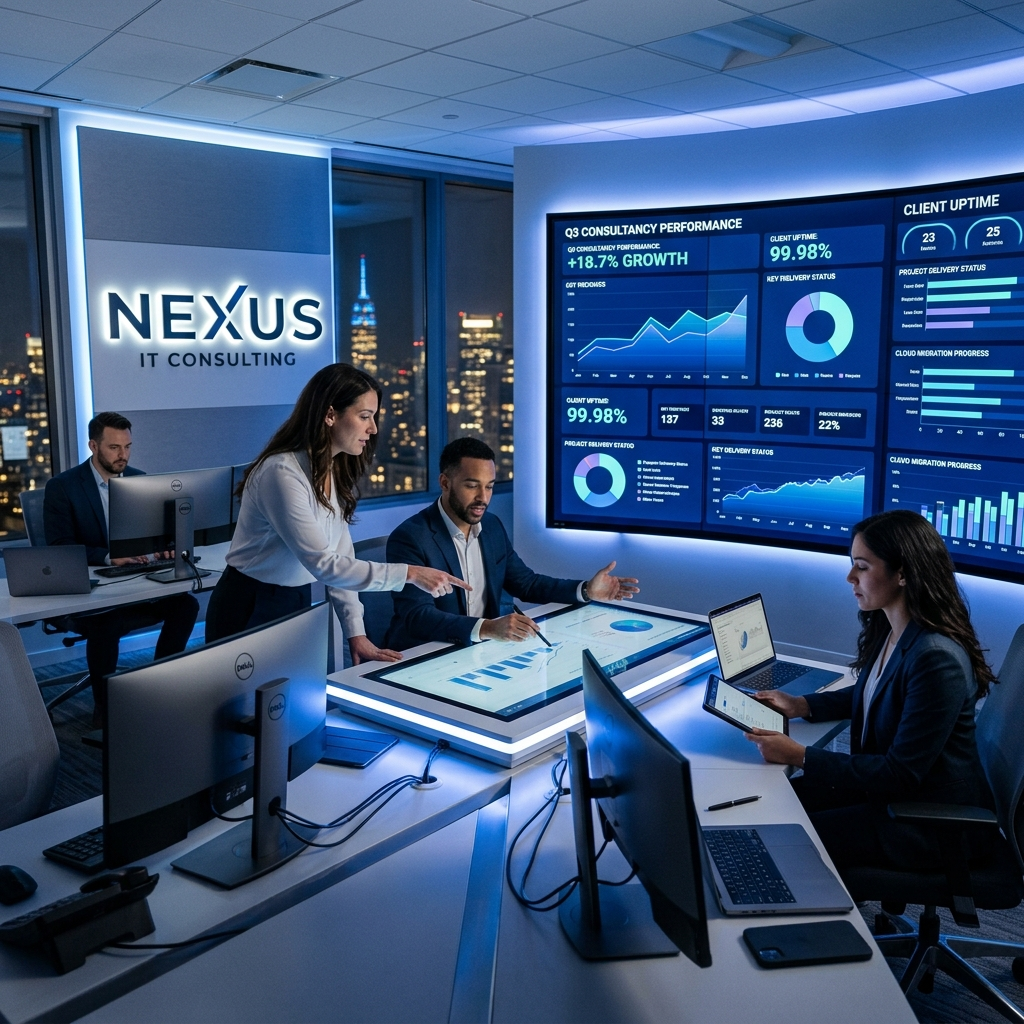
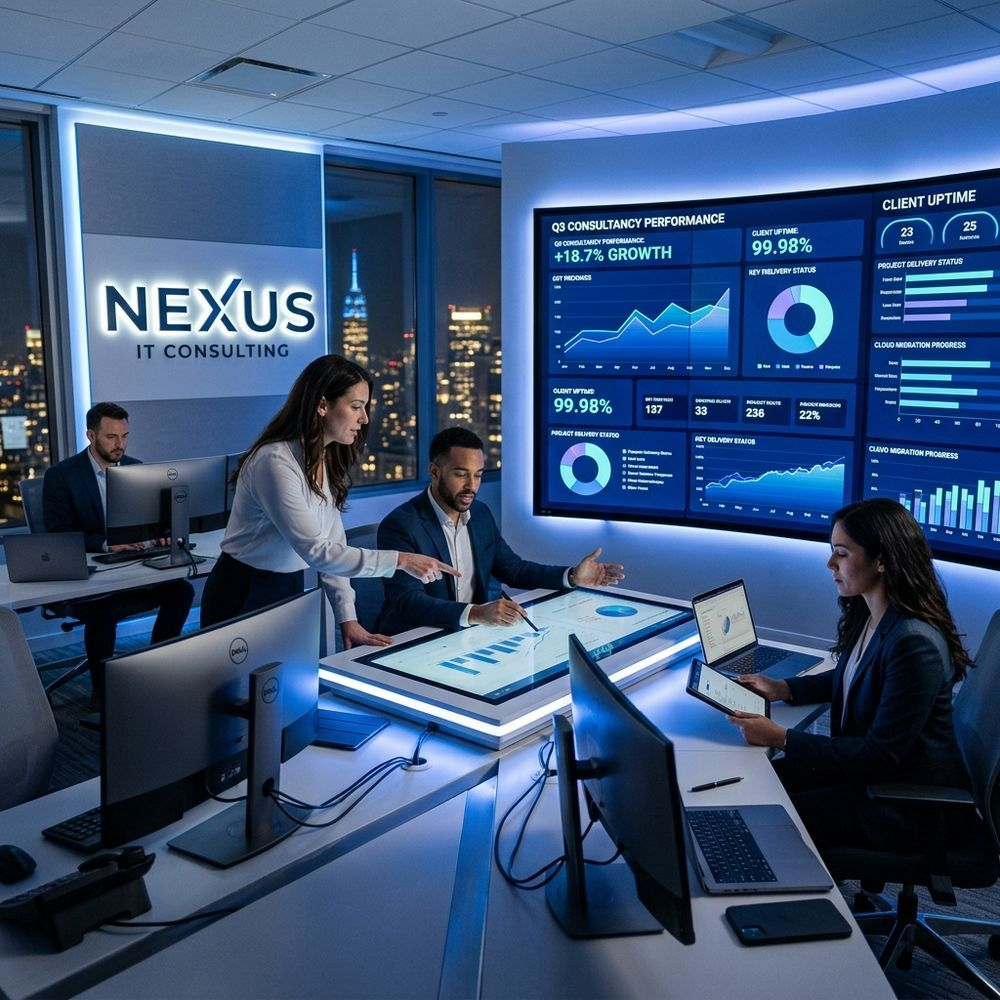
sync: incorporate uncommitted PHP, htaccess, and image changes from Hostinger server

Changed region(s): [[0.558, 0.217, 0.651, 0.248]]

diff --git a/backend/app/Filament/Pages/SystemLogs.php b/backend/app/Filament/Pages/SystemLogs.php
@@ -111,13 +111,10 @@ class SystemLogs extends Page
         $this->aiAnalysis = '';
 
         try {
-            $logContent = $this->logContent;
-            if (strlen($logContent) > 8000) {
-                $logContent = substr($logContent, -8000);
-            }
+            $logContent = $this->getLastCompleteLogEntries(5);
 
             $apiKey = config('ai.providers.groq.key') ?: env('GROQ_API_KEY');
-            $model = config('ai.providers.groq.models.text.default', 'llama-3.1-8b-instant');
+            $model = config('ai.providers.groq.models.text.smartest', 'llama-3.3-70b-versatile');
 
             if (!$apiKey || $apiKey === 'placeholder') {
                 $this->aiAnalysis = 'Groq API key not configured. Set AI_PROVIDER=groq and GROQ_API_KEY in .env';
@@ -133,17 +130,36 @@ class SystemLogs extends Page
                 'messages' => [
                     [
                         'role' => 'system',
-                        'content' => 'You are a Laravel DevOps expert. Analyze the following Laravel application logs and identify:
-1. ERROR/WARNING count and categories
-2. Root cause of each distinct error
-3. Specific fix commands or code changes needed
-4. Severity (critical/high/medium/low)
+                        'content' => 'You are an expert Laravel DevOps engineer and senior PHP developer.
+Analyze the provided log stream from a Laravel application (laravel.log).
 
-Format your response in clear sections with bullet points. Be concise and actionable.',
+Identify:
+1. Active Error/Warning Count and Categories:
+   - Carefully count the number of DISTINCT error occurrences.
+   - Ignore stacktrace lines when counting errors; a single stacktrace is part of one error/exception.
+   - Do NOT count common framework middlewares or pipeline wrapper frames (e.g., StartSession.php, SetUpPanel.php, TransformsRequest.php, Pipeline.php, TrimStrings.php, ConvertEmptyStringsToNull.php) as individual errors. They are just routing handlers carrying the request.
+
+2. Root Cause of Each Distinct Error:
+   - Identify the actual underlying exception or error class (e.g. `Class "Filament\Forms\Components\Tabs" not found`).
+   - Extract the exact file and line number where the issue actually originated (look at the start of the error message or the first non-vendor stack frame).
+   - EXTREMELY IMPORTANT: Do NOT claim that middleware classes (like `StartSession.php` or `SetUpPanel.php`) are "throwing exceptions" or are "broken" simply because they appear in the middle of a PHP stacktrace. Only report the root exception that triggered the trace.
+
+3. Specific Fix Commands or Code Changes:
+   - Provide direct, concrete instructions to resolve the actual root cause (e.g. correct namespaces, file paths, permissions, etc.).
+   - Only suggest commands like `php artisan config:clear` or session fixes if the root cause is explicitly config or session-related. Do not use them as generic catch-all suggestions.
+
+4. Severity:
+   - Rank the severity as:
+     * CRITICAL: Outage, database connection failed, or app completely crashed.
+     * HIGH: Major features failing, 500 server errors on core resources/controllers.
+     * MEDIUM: Isolated errors or warnings that don\'t block the main application.
+     * LOW: Deprecation warnings, notices, or minor logs.
+
+Format your response using clean, semantic markdown with clear headings, bold texts, and bullet points. Be precise, highly technical, and strictly accurate. Avoid any hallucinations.',
                     ],
                     [
                         'role' => 'user',
-                        'content' => "Here are the last 200 lines of laravel.log:\n\n```\n$logContent\n```",
+                        'content' => "Here are the last 5 complete log entries from laravel.log:\n\n```\n$logContent\n```",
                     ],
                 ],
                 'temperature' => 0.3,
@@ -161,6 +177,57 @@ Format your response in clear sections with bullet points. Be concise and action
         }
 
         $this->isAnalyzing = false;
+    }
+
+    protected function getLastCompleteLogEntries(int $limit = 3): string
+    {
+        $logPath = storage_path('logs/laravel.log');
+        if (!File::exists($logPath)) {
+            return 'No logs found.';
+        }
+
+        $content = File::get($logPath);
+        
+        // Regex to split by Laravel log entries starting with [YYYY-MM-DD HH:MM:SS]
+        $pattern = '/(?=\[\d{4}-\d{2}-\d{2} \d{2}:\d{2}:\d{2}\])/';
+        $entries = preg_split($pattern, $content);
+        
+        // Filter empty entries and trim
+        $entries = array_filter(array_map('trim', $entries));
+        
+        // Take the last $limit entries
+        $lastEntries = array_slice($entries, -$limit);
+        
+        // Clean each entry to keep only the first 15 lines of stacktrace
+        $cleanedEntries = [];
+        foreach ($lastEntries as $entry) {
+            $lines = explode("\n", $entry);
+            $cleanedLines = [];
+            $stackFrameCount = 0;
+            $truncated = false;
+            
+            foreach ($lines as $line) {
+                // If it looks like a stack frame (starts with #digit)
+                if (preg_match('/^#\d+\s+/', trim($line))) {
+                    if ($stackFrameCount < 15) {
+                        $cleanedLines[] = $line;
+                        $stackFrameCount++;
+                    } else {
+                        $truncated = true;
+                    }
+                } else {
+                    $cleanedLines[] = $line;
+                }
+            }
+            
+            if ($truncated) {
+                $cleanedLines[] = '      ... [rest of stacktrace truncated to save tokens] ...';
+            }
+            
+            $cleanedEntries[] = implode("\n", $cleanedLines);
+        }
+        
+        return implode("\n\n" . str_repeat('-', 40) . "\n\n", $cleanedEntries);
     }
 
     protected function formatBytes($bytes, $precision = 2)

diff --git a/backend/app/Http/Controllers/ContactController.php b/backend/app/Http/Controllers/ContactController.php
@@ -49,25 +49,45 @@ class ContactController extends Controller
             'utm_campaign' => $utmCampaign,
         ]);
 
-        // Create CRM Lead
-        $lead = Lead::create([
-            'source_type' => 'contact_form',
-            'name' => $validated['name'],
-            'email' => $validated['email'],
-            'phone' => $validated['phone'] ?? null,
-            'project_type' => $validated['subject'] ?? null,
-            'plan_or_idea' => $validated['message'],
-            'lead_status' => 'new',
-            'ip_address' => $ip,
-            'country' => $country,
-            'city' => $city,
-            'referrer_url' => $referrerUrl,
-            'referrer_source' => $referrerSource,
-            'utm_source' => $utmSource,
-            'utm_medium' => $utmMedium,
-            'utm_campaign' => $utmCampaign,
-            'notes' => 'Received via Contact Us Form submission.',
-        ]);
+        // Create or update CRM Lead
+        $lead = Lead::where('email', $validated['email'])->first();
+        if ($lead) {
+            $lead->update([
+                'name' => $validated['name'],
+                'phone' => $validated['phone'] ?? $lead->phone,
+                'project_type' => $validated['subject'] ?? $lead->project_type,
+                'plan_or_idea' => $validated['message'],
+                'lead_status' => 'new',
+                'ip_address' => $ip,
+                'country' => $country,
+                'city' => $city,
+                'referrer_url' => $referrerUrl,
+                'referrer_source' => $referrerSource,
+                'utm_source' => $utmSource,
+                'utm_medium' => $utmMedium,
+                'utm_campaign' => $utmCampaign,
+                'notes' => trim('Updated via Contact Us Form submission. ' . ($lead->notes ?? '')),
+            ]);
+        } else {
+            $lead = Lead::create([
+                'source_type' => 'contact_form',
+                'name' => $validated['name'],
+                'email' => $validated['email'],
+                'phone' => $validated['phone'] ?? null,
+                'project_type' => $validated['subject'] ?? null,
+                'plan_or_idea' => $validated['message'],
+                'lead_status' => 'new',
+                'ip_address' => $ip,
+                'country' => $country,
+                'city' => $city,
+                'referrer_url' => $referrerUrl,
+                'referrer_source' => $referrerSource,
+                'utm_source' => $utmSource,
+                'utm_medium' => $utmMedium,
+                'utm_campaign' => $utmCampaign,
+                'notes' => 'Received via Contact Us Form submission.',
+            ]);
+        }
 
         // Send transactional emails synchronously
         try {

diff --git a/backend/app/Filament/Resources/LeadResource.php b/backend/app/Filament/Resources/LeadResource.php
@@ -8,6 +8,7 @@ use Filament\Actions;
 use Filament\Forms;
 use Filament\Resources\Resource;
 use Filament\Schemas\Components\Section;
+use Filament\Schemas\Components\Tabs;
 use Filament\Schemas\Schema;
 use Filament\Tables;
 use Filament\Tables\Table;
@@ -28,9 +29,9 @@ class LeadResource extends Resource
             ->components([
                 Section::make('CRM Lead Profile')
                     ->schema([
-                        Forms\Components\Tabs::make('Lead Information')
+                        Tabs::make('Lead Information')
                             ->tabs([
-                                Forms\Components\Tabs\Tab::make('Contact Details')
+                                Tabs\Tab::make('Contact Details')
                                     ->schema([
                                         Forms\Components\TextInput::make('name')
                                             ->required(),
@@ -42,7 +43,7 @@ class LeadResource extends Resource
                                     ])
                                     ->columns(2),
 
-                                Forms\Components\Tabs\Tab::make('Project Context')
+                                Tabs\Tab::make('Project Context')
                                     ->schema([
                                         Forms\Components\TextInput::make('project_type')
                                             ->placeholder('e.g., Web App / CRM Integration'),
@@ -56,7 +57,7 @@ class LeadResource extends Resource
                                     ])
                                     ->columns(3),
 
-                                Forms\Components\Tabs\Tab::make('Marketing & Attribution')
+                                Tabs\Tab::make('Marketing & Attribution')
                                     ->schema([
                                         Forms\Components\TextInput::make('source_type')
                                             ->disabled()
@@ -89,7 +90,7 @@ class LeadResource extends Resource
                                     ])
                                     ->columns(3),
 
-                                Forms\Components\Tabs\Tab::make('CRM Logs & System Status')
+                                Tabs\Tab::make('CRM Logs & System Status')
                                     ->schema([
                                         Forms\Components\Select::make('lead_status')
                                             ->options([

diff --git a/backend/app/Http/Controllers/ChatController.php b/backend/app/Http/Controllers/ChatController.php
@@ -149,6 +149,29 @@ class ChatController extends Controller
                 $lead->{$field} = $extracted[$field];
             }
         }
+
+        // Deduplicate lead by email if another lead with the same email already exists
+        if (!empty($lead->email) && filter_var($lead->email, FILTER_VALIDATE_EMAIL)) {
+            $existingLead = Lead::where('email', $lead->email)
+                                ->where('id', '!=', $lead->id)
+                                ->first();
+            if ($existingLead) {
+                // Merge progressive details from current lead into existing lead
+                foreach (['name', 'phone', 'company', 'project_type', 'plan_or_idea', 'budget', 'timeline'] as $field) {
+                    if (!empty($lead->{$field})) {
+                        $existingLead->{$field} = $lead->{$field};
+                    }
+                }
+                $existingLead->chat_session_id = $chatSession->id;
+                $existingLead->source_type = 'chat';
+                
+                // If it was already saved in DB, delete the duplicate temporary lead
+                if ($lead->exists) {
+                    $lead->delete();
+                }
+                $lead = $existingLead;
+            }
+        }
         
         // Status resolution (keep qualified if already qualified)
         // Safety gate: never mark qualified without an email — the team needs it to follow up
